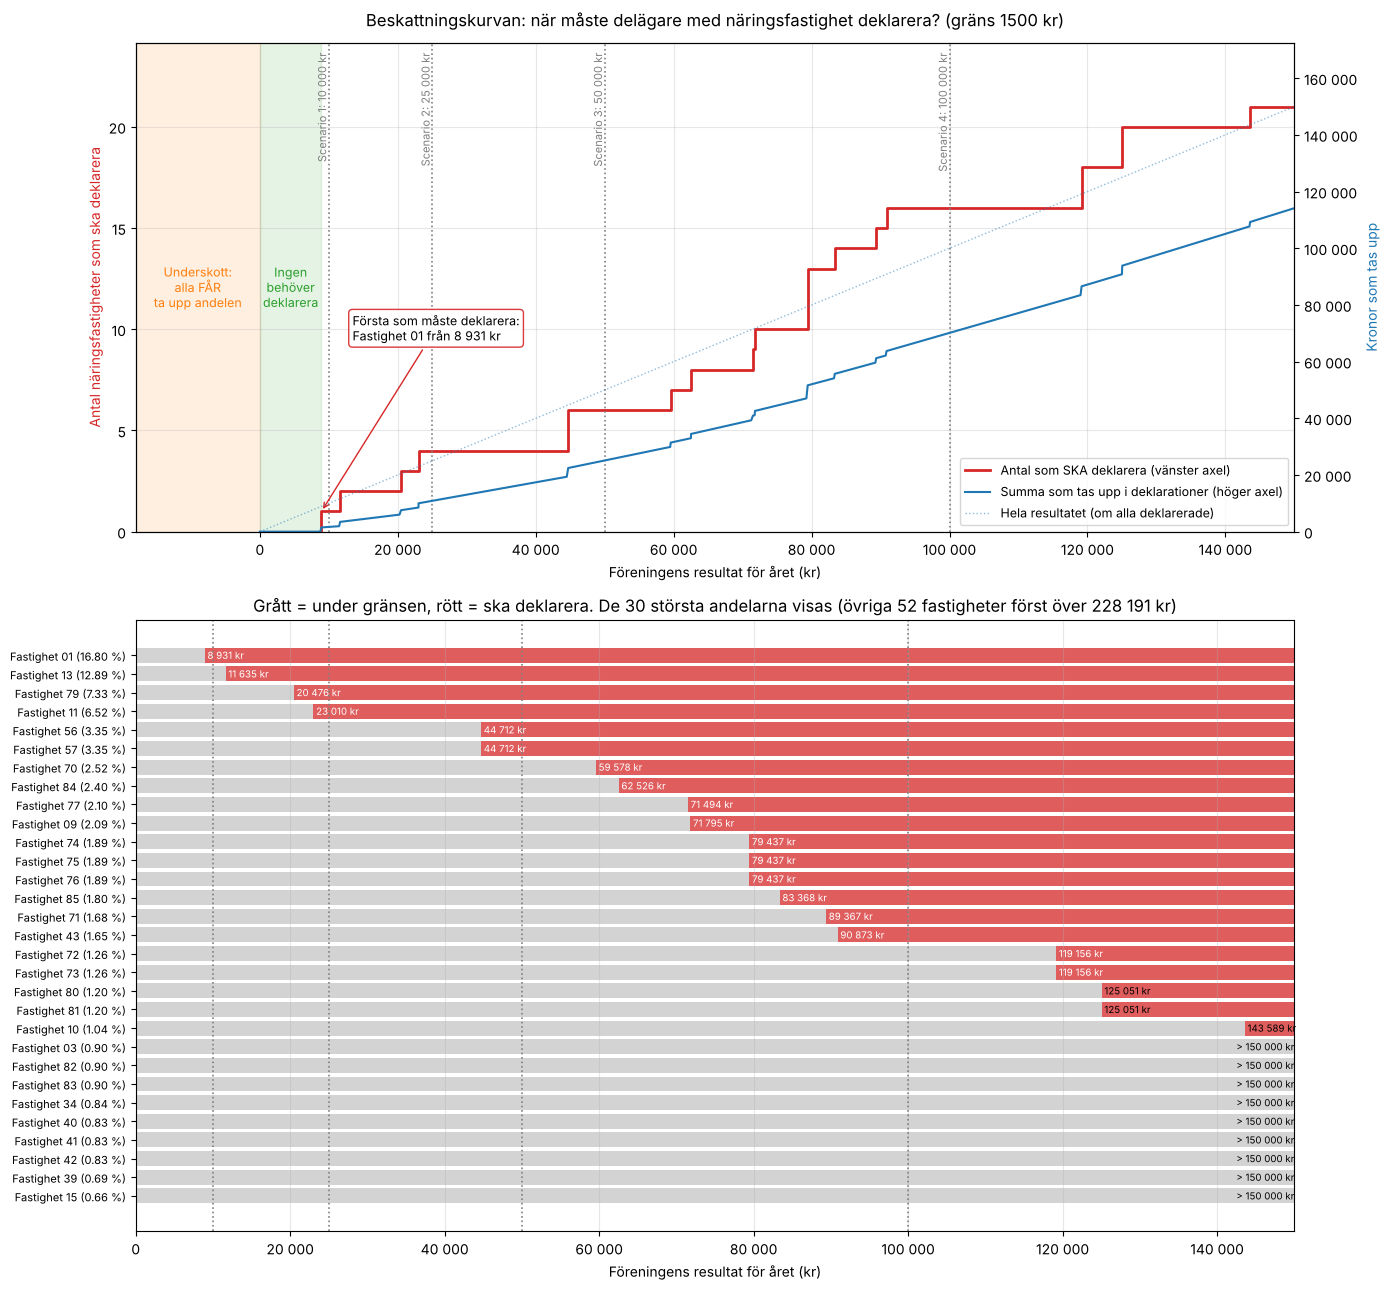
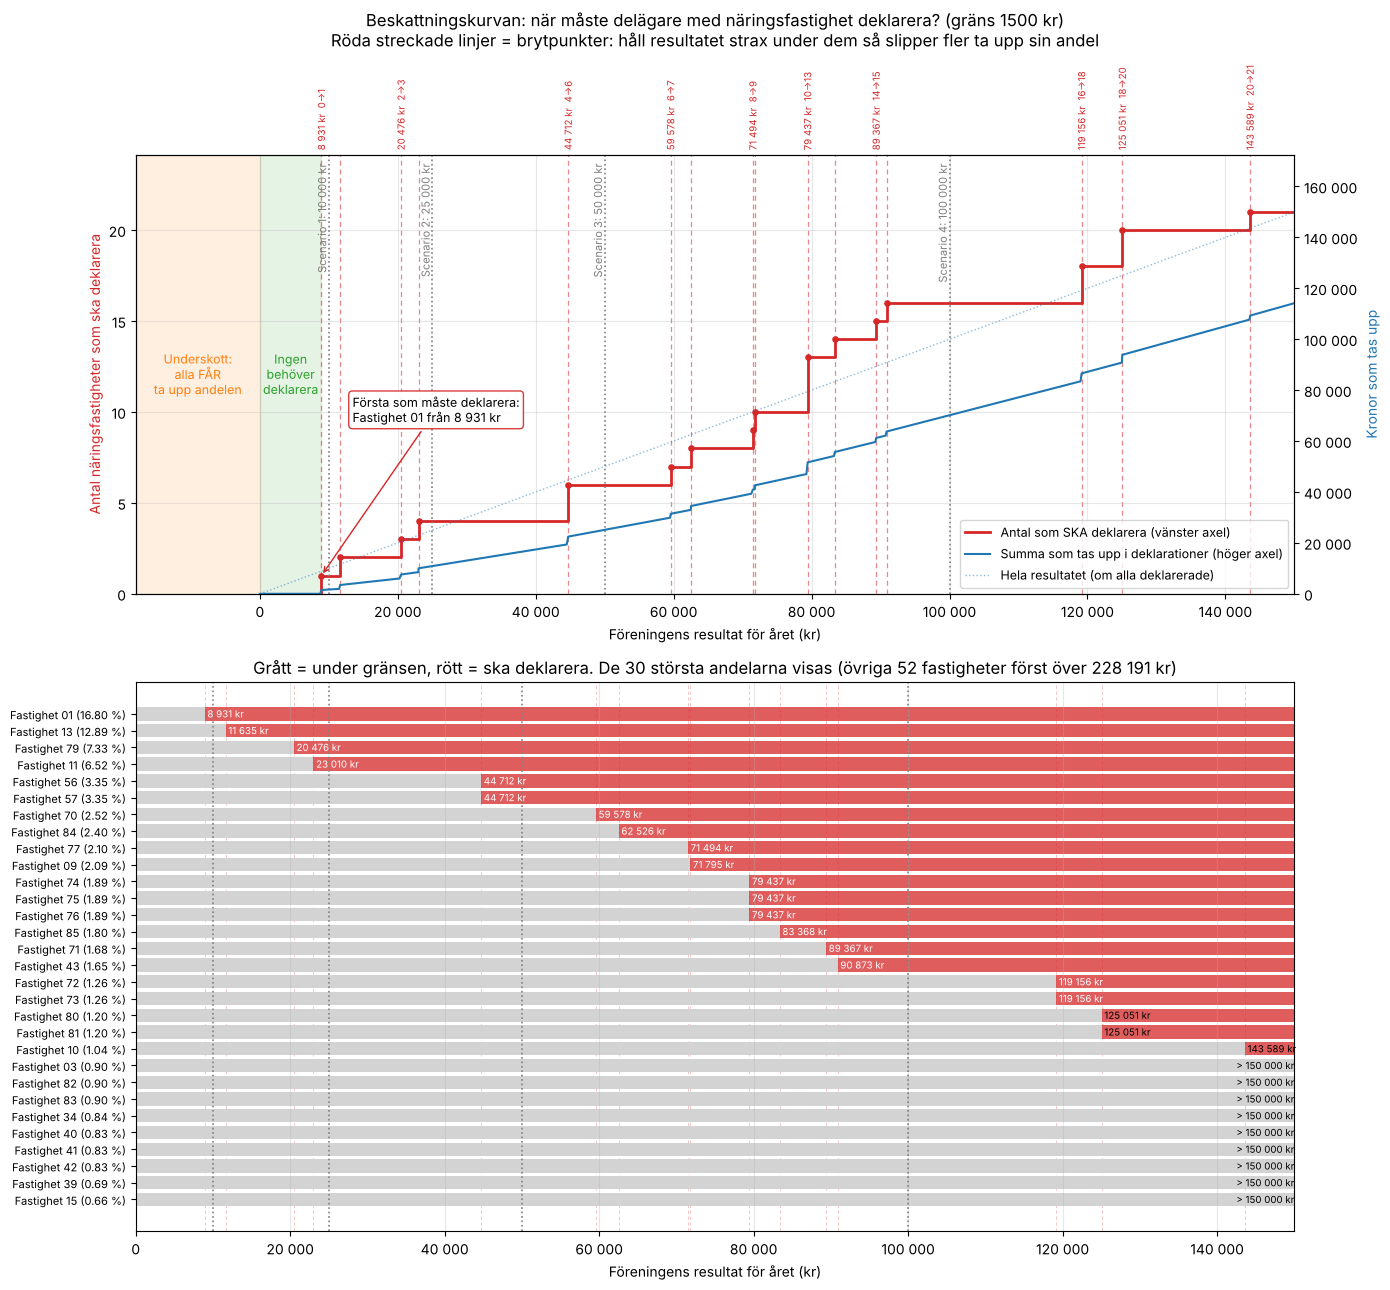
Brytpunkter i beskattningskurvan
- Röda streckade vertikala linjer och punkter vid varje brytpunkt, med
  etikett för resultat och hur antalet som ska deklarera ändras.
- Planeringstabell med resultatintervall och vilka fastigheter som tillkommer.
- Avstånd från årets resultat till närmaste brytpunkt under och över.

Claude-Session: https://claude.ai/code/session_01WDYU7EJZWkpr2StVH9EL7E

diff --git a/README.md b/README.md
@@ -41,6 +41,13 @@ fiskekort.
     länge resultatet är under 8 931 kr. Gränsen styrs av den största andelen.
   - I det **orange fältet** har föreningen underskott, och alla med näringsfastighet
     *får* ta upp sin andel.
+- **Röda streckade linjer** markerar **brytpunkterna**, alltså de resultat där
+  ytterligare fastigheter måste börja deklarera. Etiketten visar resultatet och
+  hur antalet ändras, till exempel `44 712 kr 4→6`. Om föreningen kan styra årets
+  resultat, genom att tidigarelägga en utgift eller sätta fiskekortspriset, slipper
+  fler deklarera om resultatet hamnar strax *under* en brytpunkt. Notebooken
+  skriver också ut en tabell med alla intervall och visar hur långt årets resultat
+  ligger från närmaste brytpunkt.
 - **Nedre diagrammet:** för varje fastighet visas från vilket resultat just den
   måste deklarera (rött) och var den ligger under gränsen (grått).
 - **Scenarier:** i notebooken jämför du egna resultat med listan `SCENARIER`.
